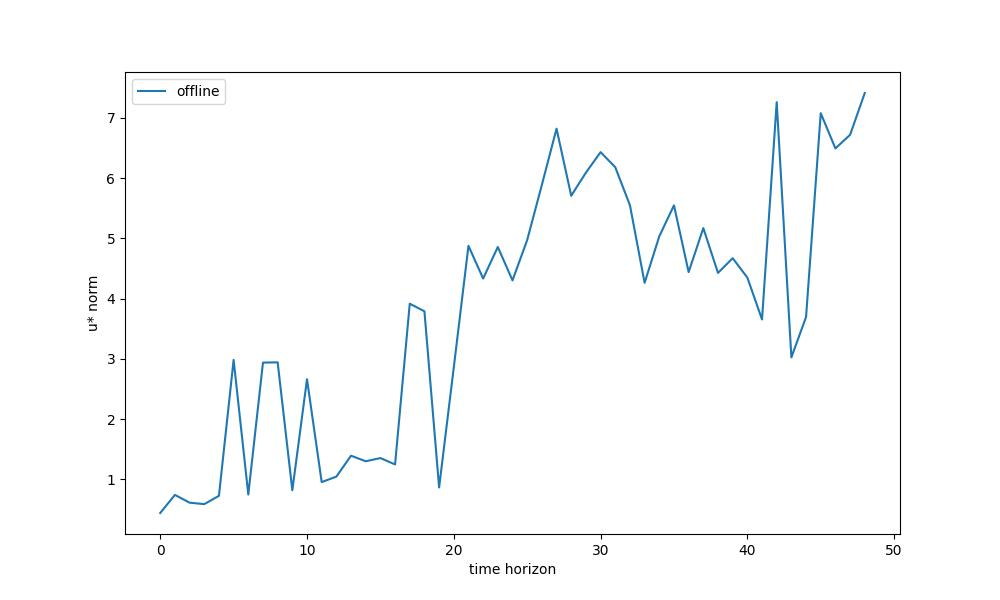
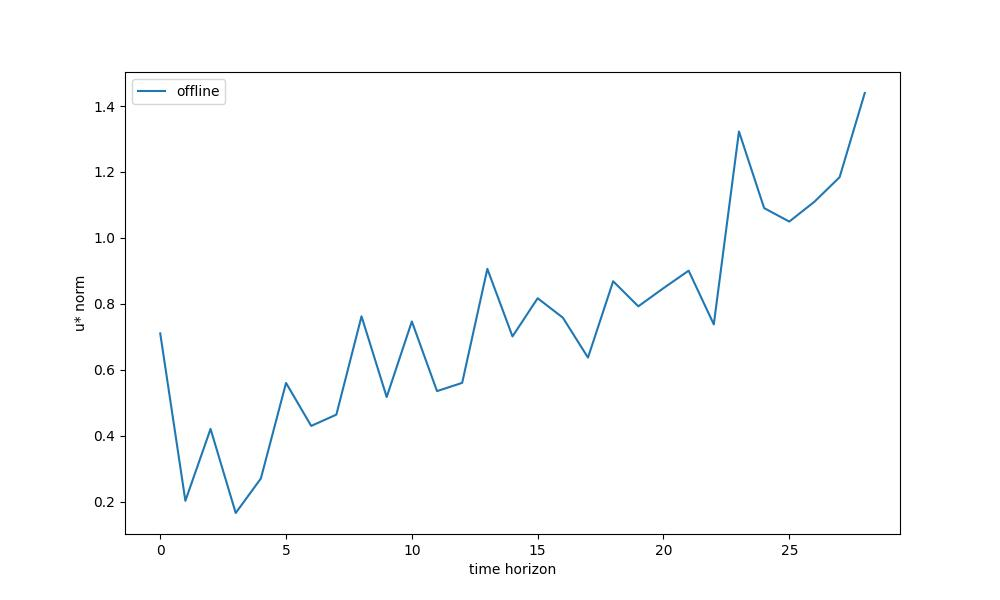
up

diff --git a/gp/ugp.py b/gp/ugp.py
@@ -58,7 +58,7 @@ class gphy:
 n,m = 2,2
 x_0 = np.array([0.0, 0.0])
 
-T_list  = range(1, 50)
+T_list  = range(1, 30)
 # sigma_0 = np.eye(n) *0.1
 Q = np.diag([2.0, 3.0])
 name = 'stable'
@@ -111,7 +111,7 @@ for T in T_list:
     for k in range(0, T):
         X_obs = []
         Y_obs = []
-        for t in range(0,10):
+        for t in range(0,100):
             x, i = algo.sample(mean, cov)
             X_obs.append(x)
             wk = np.random.normal(n)
@@ -128,8 +128,7 @@ for T in T_list:
         x_0 = xk
     final_u = [x.tolist() for x in final_u]    
    
-    print(final_u)
-    print(np.concatenate(final_u[::-1]))
+    
     #record metrics----------------------------------------
     deviation = 0
     sim = 2000
@@ -156,7 +155,7 @@ for T in T_list:
     plt.title('horizon = {}'.format(T))
     plt.legend()
     plt.savefig(filename4)
-    
+    plt.close()
 N = np.arange(0, len(dev))
 plt.figure(figsize = (10,6))
 plt.plot(N, dev, label = 'offline')
@@ -165,7 +164,7 @@ plt.ylabel('state dev')
 plt.title('avg state deviation')
 plt.legend()
 plt.savefig('udev-T.jpeg')
-
+plt.close()
 
 plt.figure(figsize = (10,6))
 plt.plot(N, norm, label = 'offline')
@@ -173,4 +172,8 @@ plt.xlabel('time horizon')
 plt.ylabel('u* norm')
 plt.legend()
 plt.savefig('unorm-T.jpeg')
-    
+plt.close()    
+
+
+
+#transfer learning
